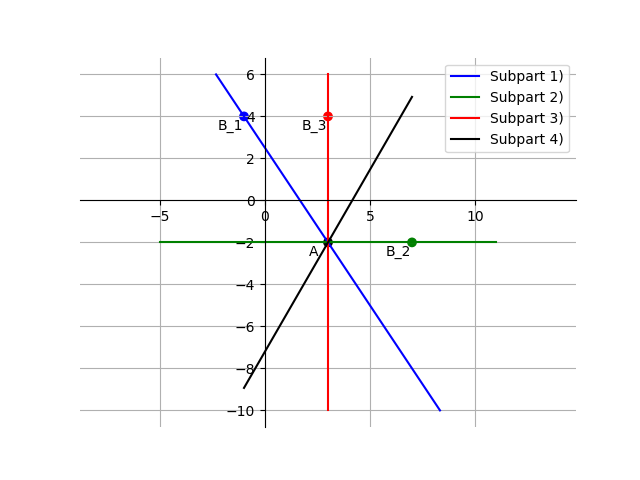
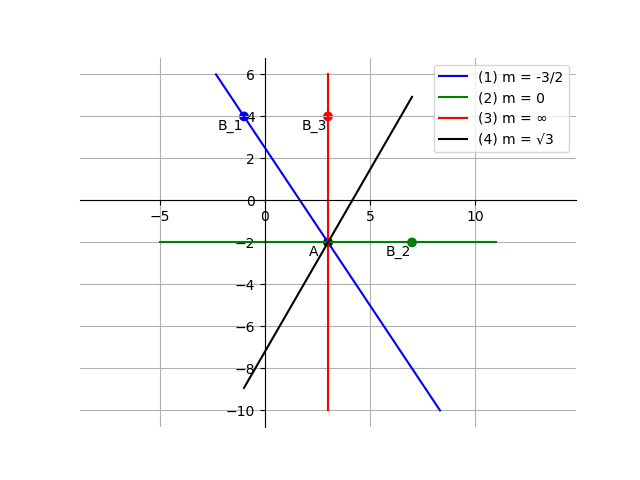
Q1 Final Rev

Changed region(s): [[0.75, 0.125, 0.875, 0.3125], [0.6875, 0.1562, 0.7188, 0.25], [0.6875, 0.2812, 0.7188, 0.3125]]

diff --git a/Question_1/Codes/linear.py b/Question_1/Codes/linear.py
@@ -35,10 +35,10 @@ x_AB3 = line_dir_pt(m_3,A,k1,k2)
 x_AQ = line_dir_pt(m_4,A,k1,k2)
 
 #Plotting all lines
-plt.plot(x_AB1[0,:],x_AB1[1,:],label='Subpart 1)',c="blue")
-plt.plot(x_AB2[0,:],x_AB2[1,:],label='Subpart 2)',c="g")
-plt.plot(x_AB3[0,:],x_AB3[1,:],label='Subpart 3)',c="r")
-plt.plot(x_AQ[0,:],x_AQ[1,:],label='Subpart 4)',c="black")
+plt.plot(x_AB1[0,:],x_AB1[1,:],label='(1) m = -3/2',c="blue")
+plt.plot(x_AB2[0,:],x_AB2[1,:],label='(2) m = 0',c="g")
+plt.plot(x_AB3[0,:],x_AB3[1,:],label='(3) m = ∞',c="r")
+plt.plot(x_AQ[0,:],x_AQ[1,:],label='(4) m = √3',c="black")
 
 colors = ['black','blue','green','r']
 #Labeling the coordinates

diff --git a/Question_1/main.tex b/Question_1/main.tex
@@ -82,7 +82,7 @@
 				&= \myvec{4 \\ -6} \\
 				&= 4\myvec{1 \\ \frac{-3}{2}}
 		\end{align}
-		$\therefore \text{slope is } \frac{3}{2}$
+		$\therefore \text{slope is } \frac{-3}{2}$
 	}
 	\item{
 			\begin{align} m = B-A &= \myvec{3 \\ -2} - \myvec{7 \\ -2} \\
